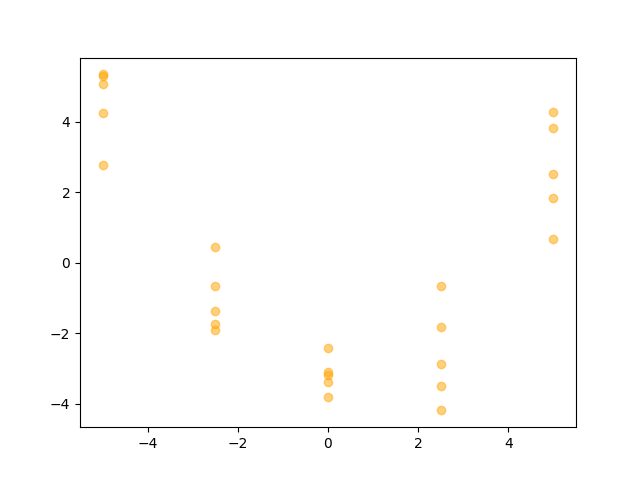
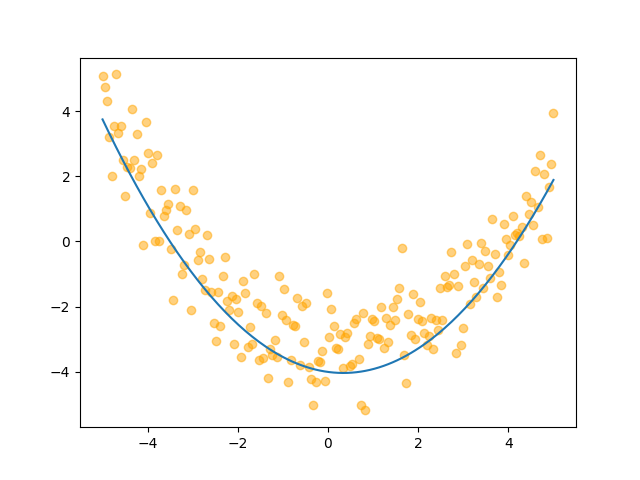
add mismatch cov method

diff --git a/curepy/retrieval_methods/mcmc.py b/curepy/retrieval_methods/mcmc.py
@@ -50,6 +50,7 @@ class MCMC(BaseRetrieval):
         return_b_samples: bool = False,
         reshape_results: bool = True,
         corr_dims: Optional[Union[int, Sequence[int]]] = -99,
+        iterative_mismatch_covariance: bool = False,
     ) -> RetrievalResult:
         """
         Run the MCMC retrieval and return the results.
@@ -83,7 +84,8 @@ class MCMC(BaseRetrieval):
 
         # generate samples with MCMC
         if b_samples is None or self.retrieval_input.ancillary_obj.b_MC_steps == 1:
-            samples = self.run_MCMC(theta_0, self.nwalkers, self.steps, self.burn_in)
+            samples = self.run_MCMC(theta_0, self.nwalkers, self.steps, self.burn_in,
+                                    iterative_mismatch_covariance)
         else:
             samples = np.zeros(
                 (
@@ -114,7 +116,8 @@ class MCMC(BaseRetrieval):
                     * (self.nwalkers * self.steps - self.burn_in) : (i + 1)
                     * (self.nwalkers * self.steps - self.burn_in),
                     :,
-                ] = self.run_MCMC(theta_0, self.nwalkers, self.steps, self.burn_in)
+                ] = self.run_MCMC(theta_0, self.nwalkers, self.steps, self.burn_in,
+                                  iterative_mismatch_covariance)
 
             self.retrieval_input.ancillary_obj.b = b[:]
 
@@ -134,6 +137,7 @@ class MCMC(BaseRetrieval):
         nwalkers: int,
         steps: int,
         burn_in: int,
+        iterative_mismatch_covariance: bool = False,
     ) -> np.ndarray:
         """
         Run :class:`emcee.EnsembleSampler` and return the post-burn-in chain.
@@ -143,6 +147,7 @@ class MCMC(BaseRetrieval):
         :param nwalkers: Number of ensemble walkers.
         :param steps: Total number of sampling steps.
         :param burn_in: Number of initial samples to discard.
+        :param iterative_mismatch_covariance: If ``True``, the mismatch covariance method is used.
         :returns: Array of post-burn-in samples with shape
             ``(nwalkers * steps - burn_in, ndim)``.
         """
@@ -154,7 +159,31 @@ class MCMC(BaseRetrieval):
             sampler = emcee.EnsembleSampler(nwalkers, ndimw, self.lnprob, pool=p)
         else:
             sampler = emcee.EnsembleSampler(nwalkers, ndimw, self.lnprob)
-        sampler.run_mcmc(pos, steps, progress=self.progress)
+        if not iterative_mismatch_covariance:
+            sampler.run_mcmc(pos, steps, progress=self.progress)
+        else:
+            #set random correlation for inital retrieval
+            store_corr, store_cholesky, store_W = self.retrieval_input.measurement_obj.corr_y, self.retrieval_input.measurement_obj.cholesky, self.retrieval_input.measurement_obj.W 
+            self.retrieval_input.measurement_obj.corr_y, self.retrieval_input.measurement_obj.cholesky, self.retrieval_input.measurement_obj.W = self.retrieval_input.measurement_obj.return_corr_cholesky_whitening(
+                        np.diag(np.diag(self.retrieval_input.measurement_obj.corr_y))
+                    )
+            #run MCMC with random correlation
+            sampler.run_mcmc(pos, steps, progress=self.progress)
+            #calculate the mismatch covariance matrix
+            C_model = self.retrieval_input.return_mismatch_covariance(sampler.get_chain()[:, :, :].reshape((-1, ndimw))[burn_in::])
+            C_meas = cm.convert_corr_to_cov(store_corr,
+                                            self.retrieval_input.measurement_obj.u_y_flat
+                                            )
+            C_total = C_model + C_meas
+            #rebuild the measurement object with the updated covariance matrix
+            self.retrieval_input.build_measurement(
+                self.retrieval_input.measurement_obj.y_flat,
+                cm.uncertainty_from_covariance(C_total),
+                corr_y = cm.correlation_from_covariance(C_total),
+                )
+            #run MCMC with updated covariance matrix
+            sampler.reset()
+            sampler.run_mcmc(pos, steps, progress=self.progress)
 
         samples = sampler.get_chain()[:, :, :].reshape((-1, ndimw))[burn_in::]
         return samples

diff --git a/curepy/container/retrieval_input.py b/curepy/container/retrieval_input.py
@@ -7,6 +7,9 @@ from curepy.container.measurement import Measurement
 
 from typing import Union, List, Optional, Callable, Any
 
+import scipy.linalg
+import numpy as np
+import comet_maths as cm
 
 class RetrievalInput:
 
@@ -259,3 +262,28 @@ class RetrievalInput:
             b, u_b, corr_b, corr_between_b, b_samples, b_MC_steps
         )
         self.prior_obj = Prior(prior_shape, prior_params, prior_correlation)
+        
+    def return_mismatch_covariance(self, samples: np.ndarray) -> np.ndarray:
+        """
+        Return the mismatch covariance matrix.
+
+        :param samples: Retrieval samples.
+        :returns: Mismatch covariance matrix.
+        """
+        samples_sim = np.vstack([self.measurement_function_obj.measurement_function_x(samples[i], self.ancillary_obj.b) for i in range(len(samples))])
+        r = samples_sim - self.measurement_obj.y_flat
+        C_fit = cm.convert_corr_to_cov(self.measurement_obj.corr_y, self.measurement_obj.u_y_flat)
+        r_w = scipy.linalg.sqrtm(np.linalg.inv(C_fit)) @ r.T
+        R = (r_w @ r_w.T)/len(r_w.T)
+        evals, evecs = np.linalg.eigh(R)
+        evecs_dominant = evecs[:, evals > 1]
+        evals_dominant = evals[evals > 1]
+        C_fit_half = scipy.linalg.sqrtm(C_fit)
+
+        Delta = np.diag(evals_dominant - 1.0)
+
+        C_model = C_fit_half @ evecs_dominant @ Delta @ evecs_dominant.T @ C_fit_half
+
+        C_model = 0.5 * (C_model + C_model.T)
+        
+        return C_model

diff --git a/examples/simple_quadratic_MCMC_example.py b/examples/simple_quadratic_MCMC_example.py
@@ -28,7 +28,7 @@ noise = np.random.normal(0, 1, data.shape)
 y = data + noise
 
 meas_func = MeasurementFunction(quadratic, [0.5, 0.2, -10])
-meas = Measurement(y, noise, corr_y=np.eye(len(x)))
+meas = Measurement(y, noise, corr_y= 0.9*np.eye(len(x)) + 0.1 * np.ones((len(x), len(x))))
 ancill = AncillaryParameter([x, d], [None, 1], [np.eye(len(x)), None], b_MC_steps=3)
 prior = Prior(
     ["normal"] * 3,
@@ -38,9 +38,9 @@ prior = Prior(
 
 inputs = RetrievalInput(meas_func, meas, ancill, prior)
 
-ret = MCMC(100, 1000, 100)
+ret = MCMC(100, 1000, 40000)
 
-results = ret.run_retrieval(inputs, return_samples=True)
+results = ret.run_retrieval(inputs, return_samples=True, iterative_mismatch_covariance=True)
 
 print(results.values)
 print(results.uncertainties)
